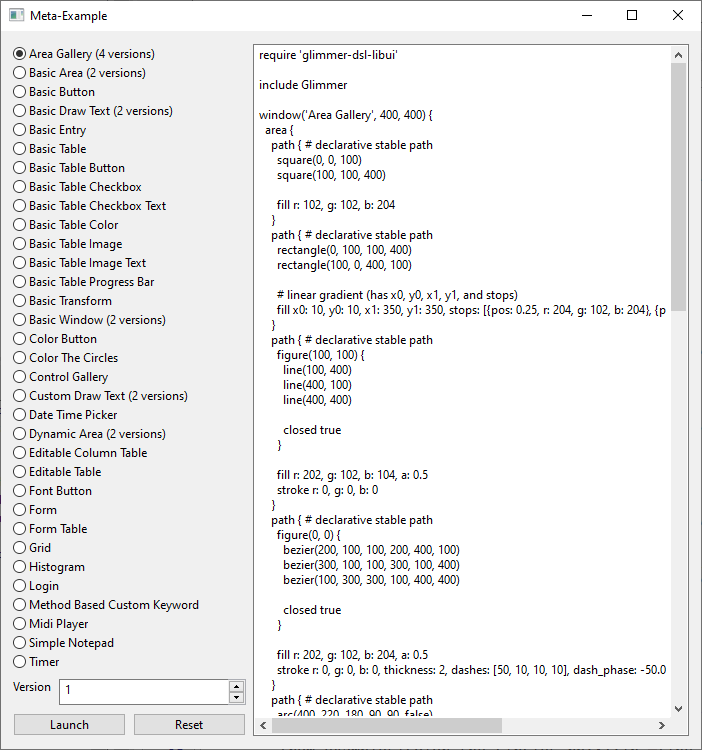
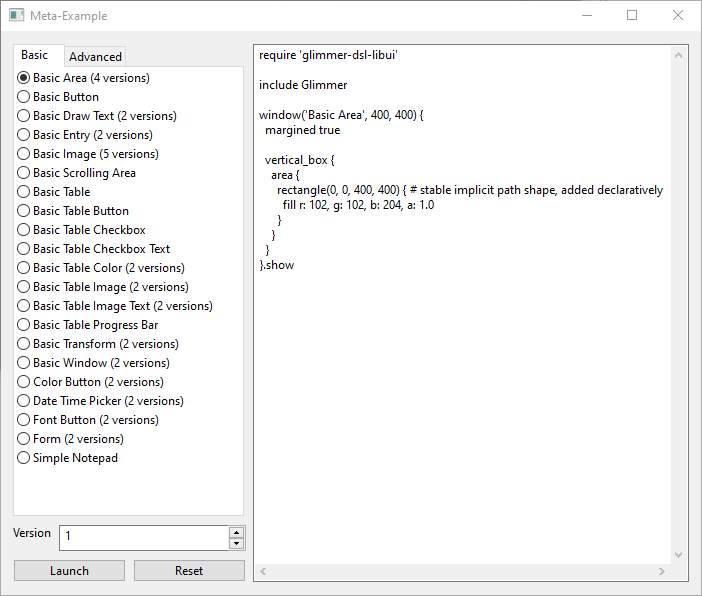
Add Windows screenshots for examples/basic_scrolling_area.rb (and #scrolling-area section) / Add Windows screenshot for examples/button_counter.rb / Update Windows screenshot of examples/meta_example.rb

Changed region(s): [[0.0, 0.0, 1.0, 1.0]]

diff --git a/README.md b/README.md
@@ -798,9 +798,9 @@ Check [examples/dynamic_area.rb](#dynamic-area) for a more detailed semi-declara
 - `scroll_to(x as Numeric, y as Numeric, width as Numeric = main_window.width, height as Numeric = main_window.height)`: scrolls to `x`/`y` location with `width` and `height` viewport size.
 - `set_size(width as Numeric, height as Numeric)`: set size of scrolling area, which must must exceed that of visible viewport in order for scrolling to be enabled.
 
-Mac |Linux
-----|-----
-![glimmer-dsl-libui-mac-dynamic-area.png](images/glimmer-dsl-libui-mac-basic-scrolling-area.png) ![glimmer-dsl-libui-mac-dynamic-area-updated.png](images/glimmer-dsl-libui-mac-basic-scrolling-area-scrolled.png) | ![glimmer-dsl-libui-linux-dynamic-area.png](images/glimmer-dsl-libui-linux-basic-scrolling-area.png) ![glimmer-dsl-libui-linux-dynamic-area-updated.png](images/glimmer-dsl-libui-linux-basic-scrolling-area-scrolled.png)
+Mac | Windows | Linux
+----|---------|------
+![glimmer-dsl-libui-mac-dynamic-area.png](images/glimmer-dsl-libui-mac-basic-scrolling-area.png) ![glimmer-dsl-libui-mac-dynamic-area-updated.png](images/glimmer-dsl-libui-mac-basic-scrolling-area-scrolled.png) | ![glimmer-dsl-libui-windows-dynamic-area.png](images/glimmer-dsl-libui-windows-basic-scrolling-area.png) ![glimmer-dsl-libui-windows-dynamic-area-updated.png](images/glimmer-dsl-libui-windows-basic-scrolling-area-scrolled.png) | ![glimmer-dsl-libui-linux-dynamic-area.png](images/glimmer-dsl-libui-linux-basic-scrolling-area.png) ![glimmer-dsl-libui-linux-dynamic-area-updated.png](images/glimmer-dsl-libui-linux-basic-scrolling-area-scrolled.png)
 
 Check [examples/basic_scrolling_area.rb](#basic-scrolling-area) for a more detailed example.
 
@@ -3481,9 +3481,9 @@ Run with this command if you installed the [Ruby gem](https://rubygems.org/gems/
 ruby -r glimmer-dsl-libui -e "require 'examples/basic_scrolling_area'"
 ```
 
-Mac | Linux
-----|------
-![glimmer-dsl-libui-mac-dynamic-area.png](images/glimmer-dsl-libui-mac-basic-scrolling-area.png) ![glimmer-dsl-libui-mac-dynamic-area-updated.png](images/glimmer-dsl-libui-mac-basic-scrolling-area-scrolled.png) | ![glimmer-dsl-libui-linux-dynamic-area.png](images/glimmer-dsl-libui-linux-basic-scrolling-area.png) ![glimmer-dsl-libui-linux-dynamic-area-updated.png](images/glimmer-dsl-libui-linux-basic-scrolling-area-scrolled.png)
+Mac | Windows | Linux
+----|---------|------
+![glimmer-dsl-libui-mac-dynamic-area.png](images/glimmer-dsl-libui-mac-basic-scrolling-area.png) ![glimmer-dsl-libui-mac-dynamic-area-updated.png](images/glimmer-dsl-libui-mac-basic-scrolling-area-scrolled.png) | ![glimmer-dsl-libui-windows-dynamic-area.png](images/glimmer-dsl-libui-windows-basic-scrolling-area.png) ![glimmer-dsl-libui-windows-dynamic-area-updated.png](images/glimmer-dsl-libui-windows-basic-scrolling-area-scrolled.png) | ![glimmer-dsl-libui-linux-dynamic-area.png](images/glimmer-dsl-libui-linux-basic-scrolling-area.png) ![glimmer-dsl-libui-linux-dynamic-area-updated.png](images/glimmer-dsl-libui-linux-basic-scrolling-area-scrolled.png)
 
 New [Glimmer DSL for LibUI](https://rubygems.org/gems/glimmer-dsl-libui) Version:
 
@@ -4820,9 +4820,9 @@ Run with this command if you installed the [Ruby gem](https://rubygems.org/gems/
 ruby -r glimmer-dsl-libui -e "require 'examples/button_counter'"
 ```
 
-Mac | Linux
-----|------
-![glimmer-dsl-libui-mac-button-counter.png](images/glimmer-dsl-libui-mac-button-counter.png) | ![glimmer-dsl-libui-linux-button-counter.png](images/glimmer-dsl-libui-linux-button-counter.png)
+Mac | Windows | Linux
+----|---------|------
+![glimmer-dsl-libui-mac-button-counter.png](images/glimmer-dsl-libui-mac-button-counter.png) | ![glimmer-dsl-libui-windows-button-counter.png](images/glimmer-dsl-libui-windows-button-counter.png) | ![glimmer-dsl-libui-linux-button-counter.png](images/glimmer-dsl-libui-linux-button-counter.png)
 
 New [Glimmer DSL for LibUI](https://rubygems.org/gems/glimmer-dsl-libui) Version:
 

diff --git a/TODO.md b/TODO.md
@@ -13,9 +13,6 @@
 - Simplify examples/basic_table_image_text.rb to pass image data as file path directly
 - Simplify examples/basic_table_color.rb to pass image data as file path directly
 
-- Add Windows screenshots for examples/basic_scrolling_area.rb (and #scrolling-area section)
-- Add Windows screenshot for examples/button_counter.rb
-- Update Windows screenshot of examples/meta_example.rb
 - Document area inclusion of explicit and implicit path shapes
 - Demo examples/button_counter.rb at the top of the README
 
